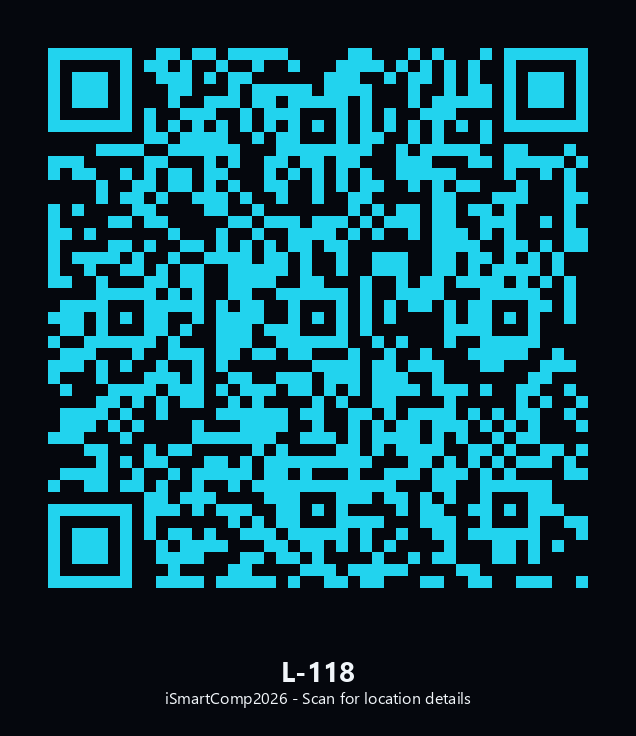
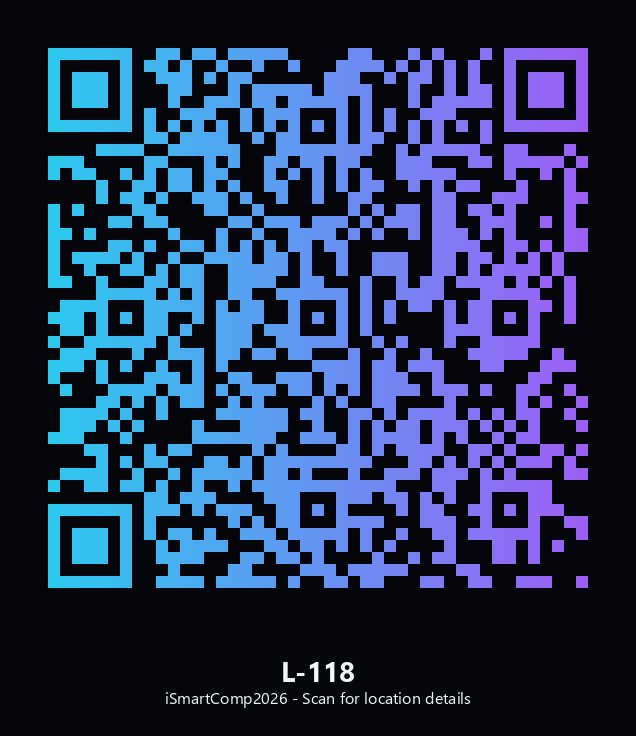
Add horizontal cyan-to-purple gradient to QR codes

Changed region(s): [[0.1792, 0.0625, 0.9261, 0.8125], [0.8962, 0.7812, 0.9261, 0.8125]]

diff --git a/scripts/generate_qr.py b/scripts/generate_qr.py
@@ -2,6 +2,8 @@ import json
 import os
 import qrcode
 from PIL import Image, ImageDraw, ImageFont
+from qrcode.image.styledpil import StyledPilImage
+from qrcode.image.styles.colormasks import HorizontalGradiantColorMask
 
 BASE_URL = "https://kr9793.github.io/SmartLocationQR/location.html?id="
 LOCATIONS_FILE = "../assets/data/locations.json"
@@ -26,10 +28,17 @@ def create_labeled_qr(data, text, filename, subtitle="iSmartComp2026 - Scan for 
     
     # Theme colors
     bg_color = "#05070d"  # Dark background
-    qr_color = "#22d3ee"  # Cyan dots
     text_color = "#f1f5f9" # Light text
     
-    qr_img = qr.make_image(fill_color=qr_color, back_color=bg_color).convert('RGB')
+    # Use gradient for QR code (Cyan to Purple)
+    qr_img = qr.make_image(
+        image_factory=StyledPilImage,
+        color_mask=HorizontalGradiantColorMask(
+            back_color=(5, 7, 13),      # #05070d
+            left_color=(34, 211, 238),  # #22d3ee
+            right_color=(168, 85, 247)  # #a855f7
+        )
+    ).convert('RGB')
     
     # Calculate sizes
     qr_w, qr_h = qr_img.size
